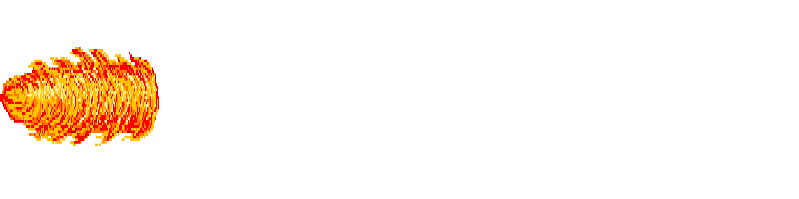
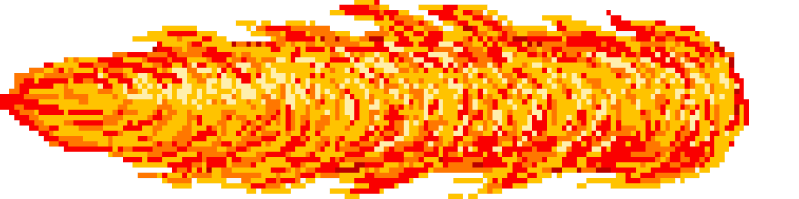
Busy Work

diff --git a/ZombieFighter.py b/ZombieFighter.py
@@ -108,9 +108,11 @@ class Player(pygame.sprite.Sprite):
 
         self.movingSpeed = mSpeed
 
-        self.bulletAmmo = 0
+        self.bulletSAmmo = 0
+        self.bulletLAmmo = 0
         self.knifeAmmo = 0
         self.fireAmmo = 0
+
         self.money = 0
 
     def takeDamage(self, damage):
@@ -128,7 +130,7 @@ font = pygame.font.SysFont(None, 100)
 smallFont = pygame.font.SysFont(None, 50)
 
 #Constants
-PLAYAREA = 10000
+PLAYAREA = 6000
 
 def main():
 
@@ -293,7 +295,7 @@ def main():
             if proj.posX + player.playerPos > PLAYAREA + 1000 or proj.posX + player.playerPos < -100:
                 projectileGroup.remove(proj)
 
-        dispHealth()
+        dispStats()
 
         projectileGroup.draw(DISPLAYSURF)
         playerGroup.draw(DISPLAYSURF)
@@ -316,10 +318,14 @@ def main():
 #def drawScreen():
 
 
-def dispHealth():
+def dispStats():
     DISPLAYSURF.blit(healthBar, (10, 0))
     pygame.draw.rect(DISPLAYSURF, (255, 0, 0), (170, 40, int(player.health * 13), 70))
     pygame.draw.rect(DISPLAYSURF, (0, 0, 0), (1500, 0, 420, 150))
+    img = smallFont.render("Ammo", True, (255, 255, 255))
+    imgPos = img.get_rect(center=(int(1920 / 2), int(1080 / 4)))
+    DISPLAYSURF.blit(img, imgPos)
+
 
 def spawnZombie():
     posX = randint(0, PLAYAREA)
@@ -337,6 +343,7 @@ def menu():
 
     mode = 0
     pos = 1
+    showControls = False
 
     while mode == 0:
 
@@ -347,7 +354,13 @@ def menu():
 
             if event.type == KEYDOWN:
                 if event.key == K_z:
-                    mode = pos
+                    if not showControls:
+                        if pos == 1:
+                            mode = 1
+                        else:
+                            showControls = True
+                    else:
+                        showControls = False
 
                 if event.key == K_UP and pos > 1:
                     pos -= 1
@@ -357,28 +370,47 @@ def menu():
 
 
         DISPLAYSURF.fill((69, 69, 69))
+        if not showControls:
+            img = font.render("Zombie Fighter", True, (255, 255, 255))
+            imgPos = img.get_rect(center=(int(1920 / 2), int(1080 / 4)))
+            DISPLAYSURF.blit(img, imgPos)
+    
+            img = smallFont.render("Play", True, (255, 255, 255))
+            imgPos = img.get_rect(center=(int(1920 / 2), int(1080 / 2)))
+            DISPLAYSURF.blit(img, imgPos)
+            if pos == 1:
+                pygame.draw.rect(DISPLAYSURF, (0, 0, 0), (imgPos.x - 3, imgPos.y - 3, imgPos.width + 6, imgPos.height + 6), 2)
+            img = smallFont.render("Controls", True, (255, 255, 255))
+            imgPos = img.get_rect(center=(int(1920 / 2),  3 * int(1080 / 4)))
+            DISPLAYSURF.blit(img, imgPos)
+            if pos == 2:
+                pygame.draw.rect(DISPLAYSURF, (0, 0, 0), (imgPos.x - 3, imgPos.y - 3, imgPos.width + 6, imgPos.height + 6), 2)
+        else:
+            img = smallFont.render(" - Controls - ", True, (255, 255, 255))
+            imgPos = img.get_rect(center=(int(1920 / 2), int(1080 / 4)))
+            DISPLAYSURF.blit(img, imgPos)
+            img = smallFont.render("Use the arrow keys to move", True, (255, 255, 255))
+            imgPos = img.get_rect(center=(int(1920 / 2), int(1080 / 4) + int(1080 * 0.05) + int(1080 * 0.05)))
+            DISPLAYSURF.blit(img, imgPos)
+            img = smallFont.render("Press Z to fire your weapon", True, (255, 255, 255))
+            imgPos = img.get_rect(center=(int(1920 / 2), int(1080 / 4) + int(1080 * 0.05) + 2 * int(1080 * 0.05)))
+            DISPLAYSURF.blit(img, imgPos)
+            img = smallFont.render("Press Shift and X to change weapons", True, (255, 255, 255))
+            imgPos = img.get_rect(center=(int(1920 / 2), int(1080 / 4) + int(1080 * 0.05) + 3 * int(1080 * 0.05)))
+            DISPLAYSURF.blit(img, imgPos)
+            img = smallFont.render("Press Escape to quit", True, (255, 255, 255))
+            imgPos = img.get_rect(center=(int(1920 / 2), int(1080 / 4) + int(1080 * 0.05) + 4 * int(1080 * 0.05)))
+            DISPLAYSURF.blit(img, imgPos)
 
-        img = font.render("Zombie Fighter", True, (255, 255, 255))
-        imgPos = img.get_rect(center=(int(1920 / 2), int(1080 / 4)))
-        DISPLAYSURF.blit(img, imgPos)
-
-        img = smallFont.render("Play", True, (255, 255, 255))
-        imgPos = img.get_rect(center=(int(1920 / 2), int(1080 / 2)))
-        DISPLAYSURF.blit(img, imgPos)
-        if pos == 1:
-            pygame.draw.rect(DISPLAYSURF, (0, 0, 0), (imgPos.x - 3, imgPos.y - 3, imgPos.width + 6, imgPos.height + 6), 2)
-        img = smallFont.render("Controls", True, (255, 255, 255))
-        imgPos = img.get_rect(center=(int(1920 / 2),  3 * int(1080 / 4)))
-        DISPLAYSURF.blit(img, imgPos)
-        if pos == 2:
-            pygame.draw.rect(DISPLAYSURF, (0, 0, 0), (imgPos.x - 3, imgPos.y - 3, imgPos.width + 6, imgPos.height + 6), 2)
+            img = smallFont.render("Press Z to return to the title screen", True, (255, 255, 255))
+            imgPos = img.get_rect(center=(int(1920 / 2), int(1080 / 4) + 3 * int(1080 * 0.05) + 11 * int(1080 * 0.05)))
+            DISPLAYSURF.blit(img, imgPos)
 
 
         pygame.display.update()
         fpsClock.tick(FPS)
 
 
-    return mode
 
 if __name__ == '__main__':
     replay = True

diff --git a/Projectiles.py b/Projectiles.py
@@ -105,7 +105,7 @@ class FireP(Projectile):
     def __init__(self, posX, posY, direction):
 
         self.sprites = []
-        for i in range(6, 8):
+        for i in range(2):
             self.sprites.append(pygame.image.load('Images/Flame' + str(i) + '.png'))
 
         self.deleteOnImpact = False

diff --git a/Weapons.py b/Weapons.py
@@ -128,7 +128,7 @@ class Skorpian(Weapon):
         self.hold = True
         self.maxProj = 99999999999999999999999999999999999999999999999999999999999999999
         self.numProj = 0
-        self.fireRate = 0.20
+        self.fireRate = 0.15
 
         self.switchProjDir = False
 
